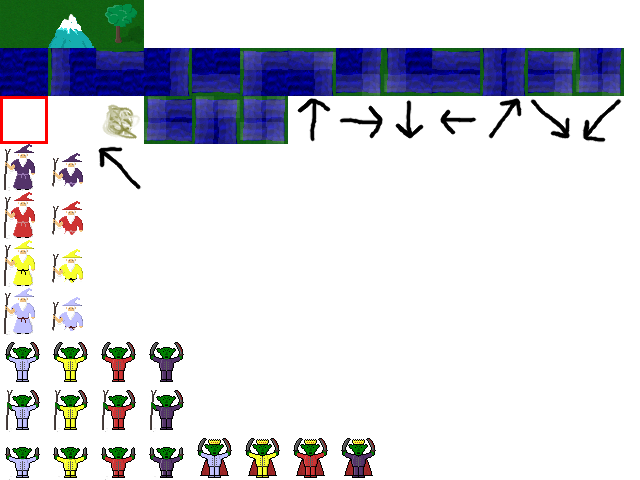
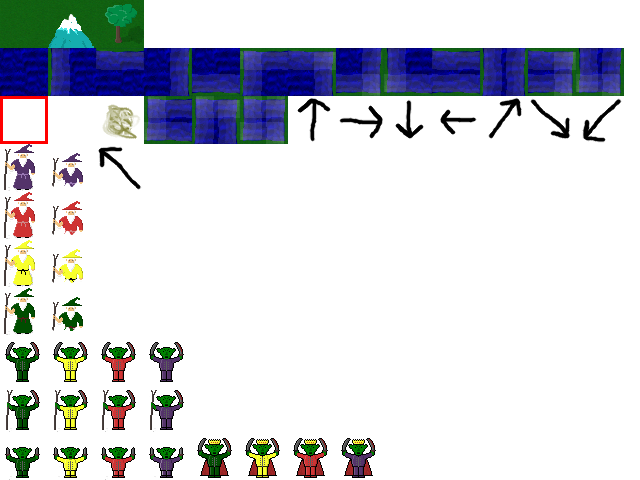
Changed colours

diff --git a/players.py b/players.py
@@ -11,11 +11,11 @@ class PlayerColours:
     PURPLE    = 1
     RED       = 2
     YELLOW    = 3
-    BLUE      = 4
+    GREEN     = 4
     NAMES     = {PURPLE : 'purple',
                  RED    : 'red'   ,
                  YELLOW : 'yellow',
-                 BLUE   : 'blue' }
+                 GREEN  : 'green' }
 
 class Player(object):
     def __init__(self,pos,type,tiles,playerType,name,colour):

diff --git a/game_window.py b/game_window.py
@@ -764,7 +764,7 @@ class Tiles(ui.UIRoot):
 colours = [players.PlayerColours.PURPLE,
            players.PlayerColours.RED   ,
            players.PlayerColours.YELLOW,
-           players.PlayerColours.BLUE ]
+           players.PlayerColours.GREEN ]
 
 class Cheat(object):
     keys = {getattr(pygame,'K_%s' % c):c for c in 'abcdefghijklmnopqrstuvwxyz'}

diff --git a/main_menu.py b/main_menu.py
@@ -5,7 +5,7 @@ from OpenGL.GL import *
 import texture,game_window,ui,random,gamedata,players
 
 #This is a terrible hack
-names = ['Purple Wizard','Red Wizard','Yellow Wizard','Blue Wizard']
+names = ['Purple Wizard','Red Wizard','Yellow Wizard','Green Wizard']
 
 class MainMenu(ui.RootElement):
     def __init__(self):
